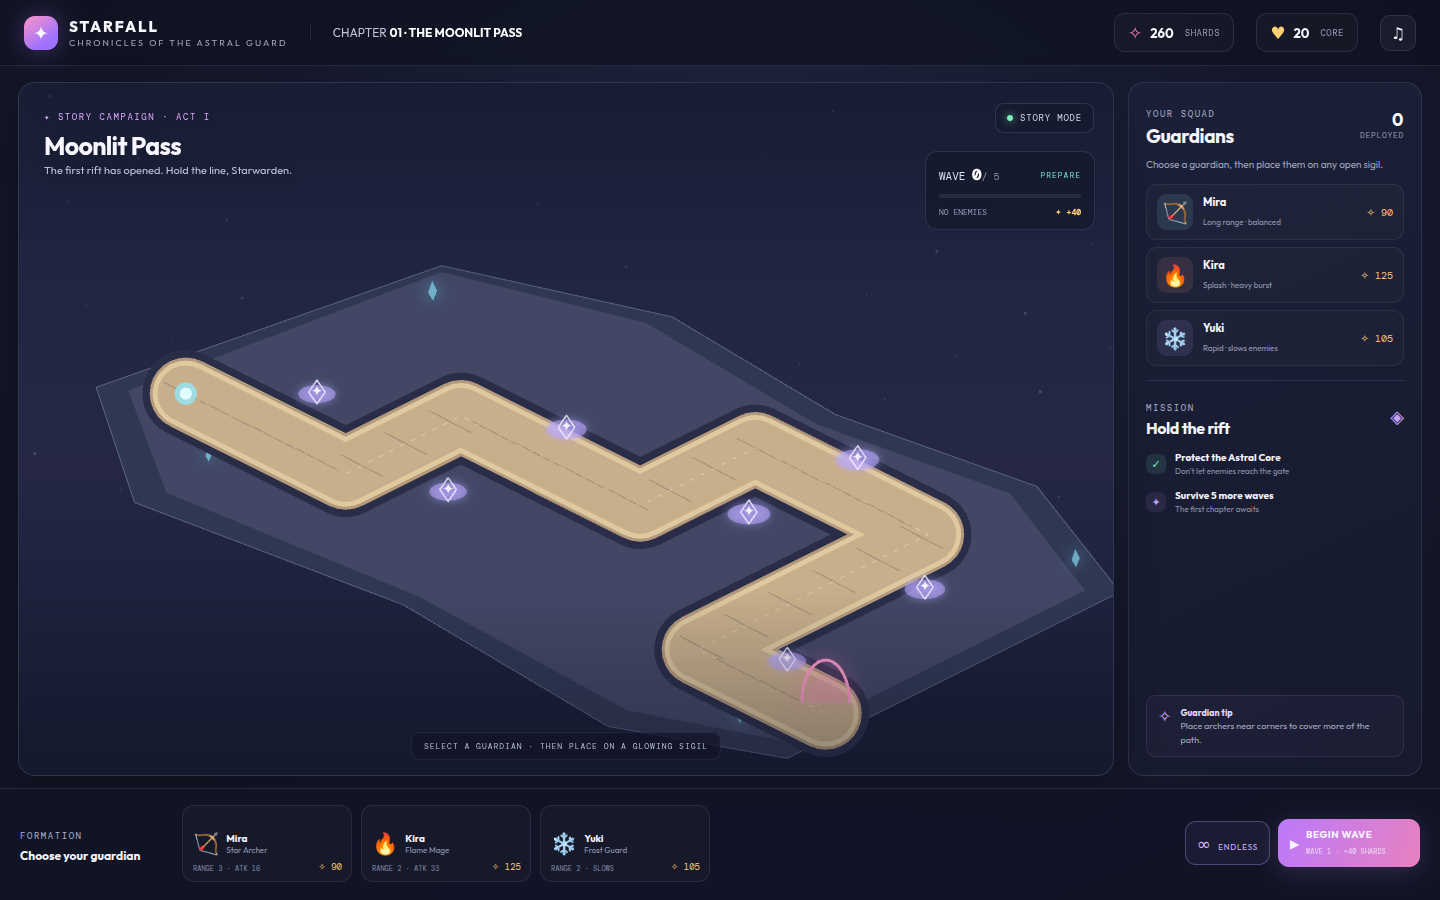
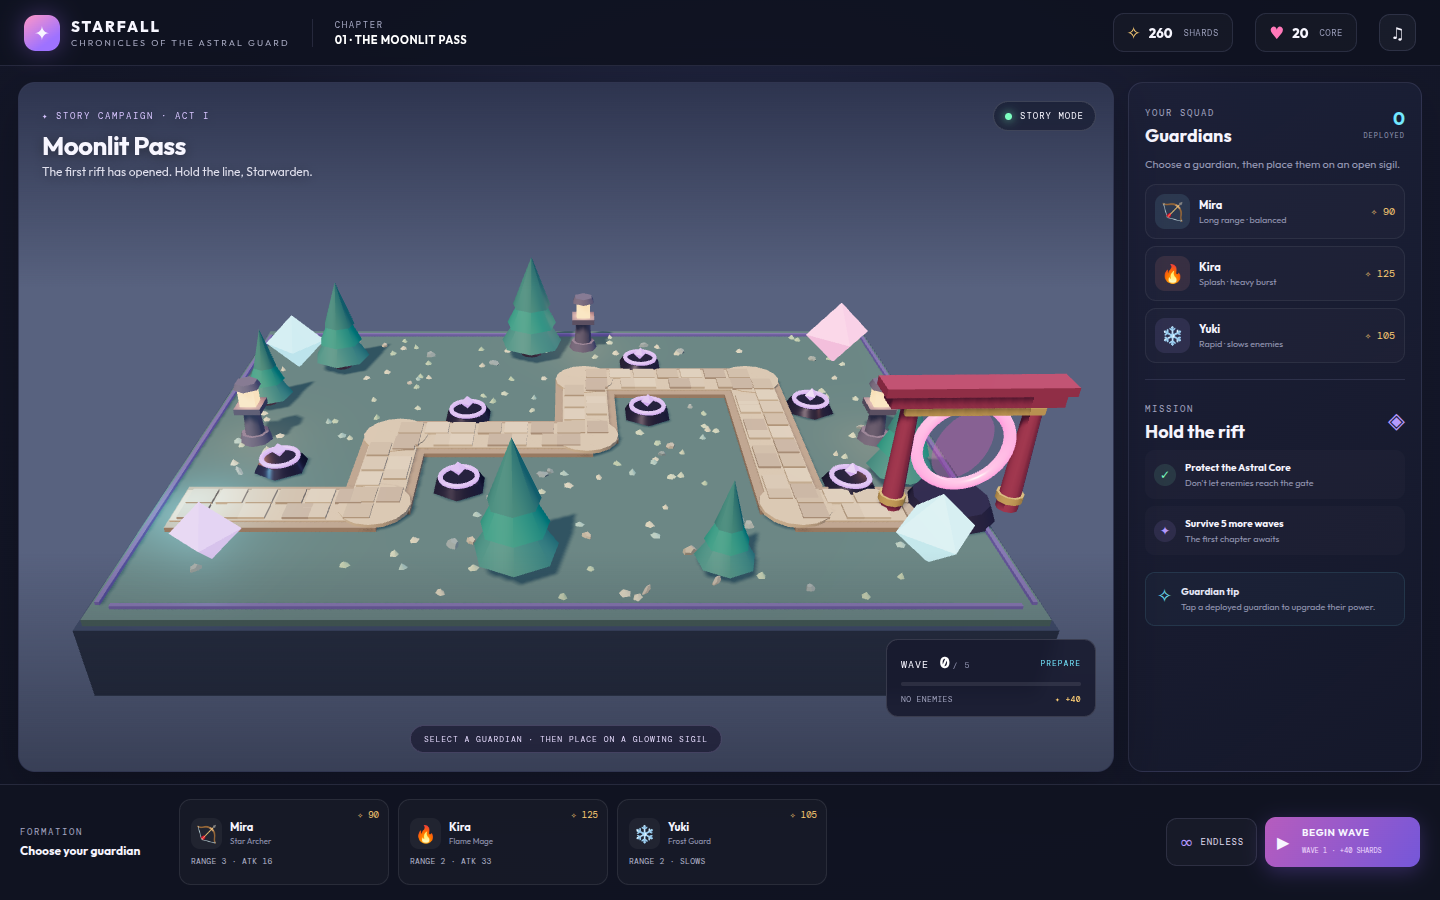
Publish static build for issue #3
Run: 41889467741
Attempt: 1
Generation: 12
Source: 87030568e780ff9bfeb8412cc351fe0522b11b13

diff --git a/game.js b/game.js
@@ -4,7 +4,7 @@ const units=[{id:'mira',name:'Mira',role:'Star Archer',emoji:'🏹',cost:90,colo
 const stages=[{name:'Moonlit Pass',desc:'The first rift has opened. Hold the line, Starwarden.',chapter:'01 · THE MOONLIT PASS'},{name:'Sakura Crossing',desc:'A crimson tide spills through the shrine gates.',chapter:'02 · SAKURA CROSSING'},{name:'Celestial Ruins',desc:'Ancient stars awaken beneath the broken spires.',chapter:'03 · CELESTIAL RUINS'}];
 const route=[[0,5.6],[2.5,5.6],[2.5,3.8],[5.3,3.8],[5.3,2],[8,2],[8,5.6],[10,5.6]], slots=[[1,4.55],[3.55,5.05],[3.5,3.15],[6.25,3.05],[6.25,1.35],[8.8,2.85],[8.85,5.05]];
 const state={gold:260,lives:20,stage:0,wave:0,mode:'story',selected:null,towers:[],enemies:[],shots:[],particles:[],running:false,spawn:0,toSpawn:0,spawnTimer:0,elapsed:0,speed:1,gameOver:false};
-const scene=new THREE.Scene();scene.background=new THREE.Color('#7f91ad');scene.fog=new THREE.Fog('#7f91ad',27,58);
+const scene=new THREE.Scene();scene.background=new THREE.Color('#58627f');scene.fog=new THREE.Fog('#58627f',27,58);
 const camera=new THREE.PerspectiveCamera(39,1,.1,120);camera.position.set(5,10,19);camera.lookAt(5,.15,3.8);
 const renderer=new THREE.WebGLRenderer({canvas,antialias:true,alpha:false,powerPreference:'high-performance'});renderer.setPixelRatio(Math.min(devicePixelRatio||1,1.7));renderer.shadowMap.enabled=true;renderer.shadowMap.type=THREE.PCFSoftShadowMap;renderer.outputColorSpace=THREE.SRGBColorSpace;renderer.toneMapping=THREE.ACESFilmicToneMapping;renderer.toneMappingExposure=1.2;
 scene.add(new THREE.HemisphereLight('#d9e8ff','#344252',1.9));const sun=new THREE.DirectionalLight('#ffe3c3',2.8);sun.position.set(-5,12,7);sun.castShadow=true;sun.shadow.mapSize.set(1024,1024);sun.shadow.camera.left=-12;sun.shadow.camera.right=12;sun.shadow.camera.top=12;sun.shadow.camera.bottom=-12;scene.add(sun);const moonFill=new THREE.DirectionalLight('#9bbdff',.65);moonFill.position.set(11,7,-5);scene.add(moonFill);
@@ -13,6 +13,10 @@ const mats={grass:mat('#536b69'),edge:mat('#384358'),road:mat('#9a836f'),road2:m
 const ground=new THREE.Mesh(new THREE.BoxGeometry(11,1,8),mats.edge);ground.position.set(5,-.52,3.8);ground.receiveShadow=true;scene.add(ground);
 const top=new THREE.Mesh(new THREE.BoxGeometry(10.85,.18,7.85),mats.grass);top.position.set(5,-.02,3.8);top.receiveShadow=true;scene.add(top);
 function box(w,h,d,material,x,y,z,parent=scene){const o=new THREE.Mesh(new THREE.BoxGeometry(w,h,d),material);o.position.set(x,y,z);o.castShadow=true;o.receiveShadow=true;parent.add(o);return o}
+// A restrained metallic rim gives the battlefield a finished diorama edge.
+const boardTrim=mat('#756f91',.42,.48,'#342c58');
+box(10.35,.045,.055,boardTrim,5,.095,.08);box(10.35,.045,.055,boardTrim,5,.095,7.52);
+box(.055,.045,7.35,boardTrim,-.34,.095,3.8);box(.055,.045,7.35,boardTrim,10.34,.095,3.8);
 function sphere(r,material,x,y,z,parent){const o=new THREE.Mesh(new THREE.SphereGeometry(r,16,12),material);o.position.set(x,y,z);o.castShadow=true;parent.add(o);return o}
 function cylinder(rt,rb,h,material,x,y,z,parent=scene,n=12){const o=new THREE.Mesh(new THREE.CylinderGeometry(rt,rb,h,n),material);o.position.set(x,y,z);o.castShadow=true;o.receiveShadow=true;parent.add(o);return o}
 function routeLength(){return route.slice(1).reduce((a,p,i)=>a+Math.hypot(p[0]-route[i][0],p[1]-route[i][1]),0)}
@@ -26,9 +30,9 @@ function tree(x,z,s=1){const g=new THREE.Group();cylinder(.13*s,.2*s,.55*s,mat('
 // Fine ground cover breaks up the board's toy-like flatness without taxing mobile GPUs.
 function routeGap(x,z){let best=99;for(let i=1;i<route.length;i++){const a=route[i-1],b=route[i],dx=b[0]-a[0],dz=b[1]-a[1],t=Math.max(0,Math.min(1,((x-a[0])*dx+(z-a[1])*dz)/(dx*dx+dz*dz)));best=Math.min(best,Math.hypot(x-a[0]-t*dx,z-a[1]-t*dz))}return best}
 let seed=741;const seeded=()=>{seed=(seed*1664525+1013904223)>>>0;return seed/4294967296};
-const grassGeo=new THREE.ConeGeometry(.04,.16,4),grassMat=new THREE.MeshStandardMaterial({color:'#fff',roughness:1,vertexColors:true});const grassCount=150,grass=new THREE.InstancedMesh(grassGeo,grassMat,grassCount),dummy=new THREE.Object3D(),bladeColors=['#91aa7f','#a8b28a','#c1bb92','#7fa69a'];let placed=0,tries=0;
-while(placed<grassCount&&tries++<grassCount*12){const x=.15+seeded()*9.7,z=.15+seeded()*7.2;if(routeGap(x,z)<.69||slots.some(([sx,sz])=>Math.hypot(x-sx,z-sz)<.48))continue;dummy.position.set(x,.16,z);dummy.rotation.set(0,seeded()*Math.PI,seeded()*.18);dummy.scale.set(.65+seeded()*.8,.5+seeded()*1.1,.65+seeded()*.8);dummy.updateMatrix();grass.setMatrixAt(placed,dummy.matrix);grass.setColorAt(placed,new THREE.Color(bladeColors[Math.floor(seeded()*bladeColors.length)]));placed++}grass.count=placed;grass.instanceMatrix.needsUpdate=true;grass.castShadow=false;scene.add(grass);
-const pebbleGeo=new THREE.DodecahedronGeometry(.09,0),pebbleMat=new THREE.MeshStandardMaterial({color:'#fff',roughness:1,vertexColors:true}),pebbles=new THREE.InstancedMesh(pebbleGeo,pebbleMat,54),pebbleColors=['#777c78','#9b9080','#666e70'];for(let i=0;i<54;i++){let x,z;do{x=.2+seeded()*9.6;z=.2+seeded()*7.1}while(routeGap(x,z)<.69||slots.some(([sx,sz])=>Math.hypot(x-sx,z-sz)<.5));dummy.position.set(x,.075,z);dummy.rotation.set(seeded(),seeded()*Math.PI,seeded());dummy.scale.set(.4+seeded()*.9,.2+seeded()*.45,.45+seeded()*.8);dummy.updateMatrix();pebbles.setMatrixAt(i,dummy.matrix);pebbles.setColorAt(i,new THREE.Color(pebbleColors[i%3]))}pebbles.castShadow=false;scene.add(pebbles);
+const grassGeo=new THREE.ConeGeometry(.055,.075,5),grassMat=new THREE.MeshStandardMaterial({color:'#fff',roughness:1});const grassCount=105,grass=new THREE.InstancedMesh(grassGeo,grassMat,grassCount),dummy=new THREE.Object3D(),bladeColors=['#9fba91','#b5c29a','#c9c19d','#8eb3a4'];let placed=0,tries=0;
+while(placed<grassCount&&tries++<grassCount*12){const x=.15+seeded()*9.7,z=.15+seeded()*7.2;if(routeGap(x,z)<.69||slots.some(([sx,sz])=>Math.hypot(x-sx,z-sz)<.48))continue;dummy.position.set(x,.105,z);dummy.rotation.set(0,seeded()*Math.PI,seeded()*.18);dummy.scale.set(.8+seeded()*.6,.65+seeded()*.45,.8+seeded()*.6);dummy.updateMatrix();grass.setMatrixAt(placed,dummy.matrix);grass.setColorAt(placed,new THREE.Color(bladeColors[Math.floor(seeded()*bladeColors.length)]));placed++}grass.count=placed;grass.instanceMatrix.needsUpdate=true;grass.castShadow=false;scene.add(grass);
+const pebbleGeo=new THREE.DodecahedronGeometry(.09,0),pebbleMat=new THREE.MeshStandardMaterial({color:'#fff',roughness:1}),pebbles=new THREE.InstancedMesh(pebbleGeo,pebbleMat,30),pebbleColors=['#8b9690','#aaa18e','#7c8b8b'];for(let i=0;i<30;i++){let x,z;do{x=.2+seeded()*9.6;z=.2+seeded()*7.1}while(routeGap(x,z)<.69||slots.some(([sx,sz])=>Math.hypot(x-sx,z-sz)<.5));dummy.position.set(x,.075,z);dummy.rotation.set(seeded(),seeded()*Math.PI,seeded());dummy.scale.set(.4+seeded()*.9,.2+seeded()*.45,.45+seeded()*.8);dummy.updateMatrix();pebbles.setMatrixAt(i,dummy.matrix);pebbles.setColorAt(i,new THREE.Color(pebbleColors[i%3]))}pebbles.castShadow=false;scene.add(pebbles);
 // A luminous torii shrine frames the exit portal and gives the route a clear landmark.
 const gate=new THREE.Group();gate.position.set(10,.12,5.6);scene.add(gate);const gateMat=new THREE.MeshStandardMaterial({color:'#ff9ccf',emissive:'#ff3b9c',emissiveIntensity:2,metalness:.5,roughness:.22});
 const torii=mat('#a94f68',.48,.22),toriiGold=mat('#f3c477',.32,.42);for(const side of [-1,1]){cylinder(.105,.14,1.58,torii,side*.77,.79,0,gate,10);cylinder(.17,.17,.1,toriiGold,side*.77,.18,0,gate,10)}box(2.12,.2,.3,torii,0,1.66,0,gate);box(1.72,.1,.24,toriiGold,0,1.49,0,gate);box(2.32,.12,.38,torii,0,1.79,0,gate);
@@ -58,7 +62,7 @@ function renderCards(){const cardHTML=units.map(u=>`<button class="pick-card ${s
 function selectUnit(id){state.selected=state.selected===id?null:id;renderCards();$('#hint').textContent=state.selected?'TAP A GLOWING SIGIL TO DEPLOY · TAP A GUARDIAN TO CANCEL':'SELECT A GUARDIAN · THEN PLACE ON A GLOWING SIGIL'}
 let uiSignature='';function updateUI(full=true){const sig=[state.gold,state.lives,state.towers.length,state.mode,state.stage,state.wave].join('|');if(!full&&sig===uiSignature)return;uiSignature=sig;$('#gold').textContent=state.gold;$('#lives').textContent=state.lives;$('#unitCount').textContent=state.towers.length;$('#chapterLabel').textContent=state.mode==='endless'?'ENDLESS · RIFT SURVIVAL':stages[state.stage].chapter;$('#stageTitle').textContent=state.mode==='endless'?'The Eternal Rift':stages[state.stage].name;$('#stageDesc').textContent=state.mode==='endless'?'No end in sight. How long can your squad endure?':stages[state.stage].desc;$('#modeTag').textContent=state.mode==='endless'?'ENDLESS MODE':'STORY MODE';$('#objectiveWaves').textContent=state.mode==='endless'?'Survive as long as you can':`Survive ${Math.max(0,5-state.wave)} more waves`;$('#objectiveSub').textContent=state.mode==='endless'?'Every fifth wave brings an elite':'The first chapter awaits';$('#waveTotal').textContent=state.mode==='story'?'/ 5':'/ ∞';if(full)renderCards()}
 function spawnEnemy(){const elite=state.mode==='endless'&&state.wave%5===0,hp=(52+state.wave*17)*(elite?3:1),p=pointAt(0),color=elite?'#ff648f':['#d878bd','#ee80a7','#a970c6'][Math.floor(Math.random()*3)];const e={id:Math.random(),distance:0,x:p.x,z:p.z,hp,max:hp,speed:elite?.72:.78+Math.min(state.wave*.025,.42),color,reward:elite?35:10,slow:0};state.enemies.push(e);makeEnemy(e)}
-function beginWave(){if(state.gameOver)return;if(state.running){state.speed=state.speed===1?2:1;toast(state.speed===2?'Speed ×2':'Speed ×1');return}if(state.wave>=5&&state.mode==='story'){nextChapter();return}state.wave++;state.toSpawn=state.mode==='story'?6+state.wave*2:8+Math.min(state.wave*2,36);state.spawn=0;state.spawnTimer=.15;state.running=true;state.speed=1;$('#waveStatus').textContent='INCOMING';$('#waveNum').textContent=state.wave;$('#waveTotal').textContent=state.mode==='story'?'/ 5':'/ ∞';$('#launchSub').textContent='WAVE IN PROGRESS · SPEED ×1';$('#launchBtn b').textContent='SPEED UP';$('#bonus').textContent='+'+(30+state.wave*10);updateUI();toast(`Wave ${state.wave} incoming!`)}
+function beginWave(){if(state.gameOver)return;if(state.running){state.speed=state.speed===1?2:1;$('#launchSub').textContent=`WAVE IN PROGRESS · SPEED ×${state.speed}`;$('#launchBtn b').textContent=state.speed===2?'NORMAL SPEED':'SPEED UP';toast(state.speed===2?'Speed ×2':'Speed ×1');return}if(state.wave>=5&&state.mode==='story'){nextChapter();return}state.wave++;state.toSpawn=state.mode==='story'?6+state.wave*2:8+Math.min(state.wave*2,36);state.spawn=0;state.spawnTimer=.15;state.running=true;state.speed=1;$('#waveStatus').textContent='INCOMING';$('#waveNum').textContent=state.wave;$('#waveTotal').textContent=state.mode==='story'?'/ 5':'/ ∞';$('#launchSub').textContent='WAVE IN PROGRESS · SPEED ×1';$('#launchBtn b').textContent='SPEED UP';$('#bonus').textContent='+'+(30+state.wave*10);updateUI();toast(`Wave ${state.wave} incoming!`)}
 function burst(x,z,color){for(let i=0;i<8;i++){const mesh=new THREE.Mesh(new THREE.IcosahedronGeometry(rand(.035,.075),0),new THREE.MeshBasicMaterial({color}));mesh.position.set(x,.65+rand(0,.4),z);scene.add(mesh);state.particles.push({mesh,vx:rand(-1.3,1.3),vy:rand(.3,1.8),vz:rand(-1.3,1.3),life:rand(.35,.8),max:.8})}}
 function fire(t,target){const projectile=new THREE.Mesh(new THREE.SphereGeometry(.09,10,8),new THREE.MeshBasicMaterial({color:t.color}));projectile.position.set(t.x,.95,t.z);scene.add(projectile);state.shots.push({mesh:projectile,target,color:t.color,damage:t.damage,slow:t.slow});const rig=towerMeshes.get(t);if(rig){rig.attack=.22;rig.head.rotation.y=.3}}
 function hit(e,s){e.hp-=s.damage;if(s.slow)e.slow=1.5;burst(e.x,e.z,s.color);if(e.hp<=0){state.gold+=e.reward;burst(e.x,e.z,'#ffdc7f')}}
@@ -88,7 +92,7 @@ function onCanvasPointer(event){const rect=canvas.getBoundingClientRect();pointe
  for(const t of state.towers){const rig=towerMeshes.get(t);if(rig){const hits=raycaster.intersectObject(rig.root,true);if(hits.length){state.selected=null;renderCards();upgrade(t);return}}}
  if(!state.selected){const onTower=state.towers.find(t=>{const p=new THREE.Vector3(t.x,.8,t.z).project(camera);return Math.hypot((p.x-pointer.x)*rect.width/2,(p.y-pointer.y)*rect.height/2)<25});if(onTower){upgrade(onTower);return}}
  if(!state.selected)return;if(!raycaster.ray.intersectPlane(groundPlane,hitPoint))return;let best=-1,bestD=.62;slots.forEach(([x,z],i)=>{const d=Math.hypot(x-hitPoint.x,z-hitPoint.z);if(d<bestD){bestD=d;best=i}});if(best<0){toast('Choose one of the glowing sigils.');return}if(state.towers.some(t=>t.slot===best)){toast('That sigil is already occupied.');return}const unit=units.find(u=>u.id===state.selected);if(state.gold<unit.cost){toast('Not enough shards.');return}state.gold-=unit.cost;const [x,z]=slots[best],tower={...unit,x,z,slot:best,level:1,cool:.2};state.towers.push(tower);makeTower(tower);state.selected=null;renderCards();$('#hint').textContent='SELECT A GUARDIAN · THEN PLACE ON A GLOWING SIGIL';updateUI();toast(`${unit.name} deployed!`)}
-function resize(){const rect=canvas.getBoundingClientRect();if(!rect.width||!rect.height)return;camera.aspect=rect.width/rect.height;const portrait=camera.aspect<.78;camera.fov=portrait?58:40;if(portrait)camera.position.set(5,15,17.5);else camera.position.set(5,7.2,15.8);camera.lookAt(5,.3,3.8);camera.updateProjectionMatrix();renderer.setSize(rect.width,rect.height,false)}
+function resize(){const rect=canvas.getBoundingClientRect();if(!rect.width||!rect.height)return;camera.aspect=rect.width/rect.height;const portrait=camera.aspect<.78;camera.fov=portrait?57:40;if(portrait)camera.position.set(5,14,16.8);else camera.position.set(5,7.2,15.8);camera.lookAt(5,.3,3.8);camera.updateProjectionMatrix();renderer.setSize(rect.width,rect.height,false)}
 let last=0;function frame(now){requestAnimationFrame(frame);const dt=Math.min(.05,(now-last)/1000||0);last=now;update(dt);slotObjects.forEach((s,i)=>{const active=!!state.selected&&!state.towers.some(t=>t.slot===i);s.halo.material.opacity=active?.9:.34+Math.sin(state.elapsed*2+i)*.12;s.gem.rotation.y=state.elapsed*(active?2:1);s.gem.position.y=.23+Math.sin(state.elapsed*2+i)*.025});renderer.render(scene,camera)}
 $('#launchBtn').addEventListener('click',beginWave);$('#modeBtn').addEventListener('click',()=>{if(state.running){toast('Finish the current wave before changing modes.');return}state.mode=state.mode==='story'?'endless':'story';state.wave=0;$('#waveNum').textContent='0';$('#waveStatus').textContent='PREPARE';$('#launchBtn b').textContent='BEGIN WAVE';$('#launchSub').textContent='WAVE 1 · +40 SHARDS';updateUI();toast(state.mode==='endless'?'Endless mode selected':'Story campaign selected')});
 $('#modalClose').addEventListener('click',hideModal);$('#modal').addEventListener('click',e=>{if(e.target===$('#modal'))hideModal()});$('#soundBtn').addEventListener('click',e=>{e.currentTarget.classList.toggle('muted');toast(e.currentTarget.classList.contains('muted')?'Sound off':'Sound on')});canvas.addEventListener('pointerup',onCanvasPointer);window.addEventListener('resize',resize);new ResizeObserver(resize).observe(canvas.parentElement);
